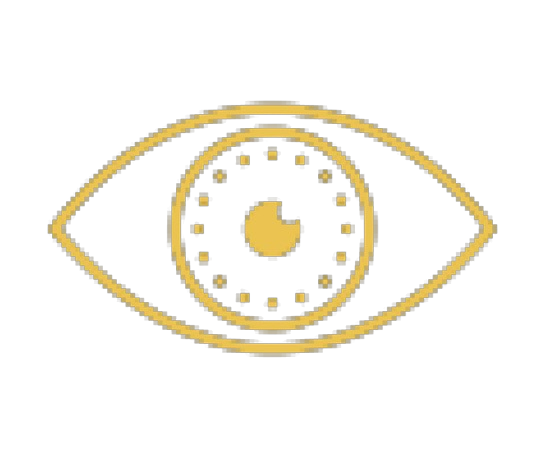
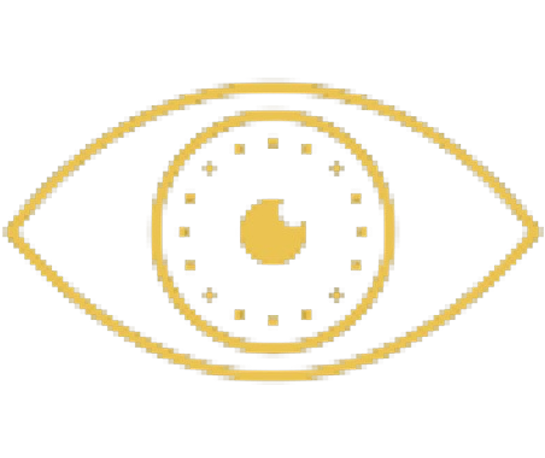
Muitas mudanças, envolvendo resolução de bug visual no HTML do login e do cadastro, mudança na construção de rotas, alteração de imagens nos assets etc.

Changed region(s): [[0.0, 0.1528, 0.9982, 0.8559], [0.4367, 0.4279, 0.5615, 0.5808]]

diff --git a/backend/src/server.js b/backend/src/server.js
@@ -15,53 +15,53 @@ app.get("/", (request, response) => {
 });
 
 app.get("/cadastro", (request, response) => {
-    response.sendFile("cadastro.html");
+    response.sendFile(path.join(__dirname, "..", "..", "frontend", "pages", "HTML", "cadastro.html"));
 });
 
 app.get("/carrinho", (request, response) => {
-    response.sendFile("carrinho_de_compras.html");
+    response.sendFile(path.join(__dirname, "..", "..", "frontend", "pages", "HTML", "carrinho_de_compras.html"));
 });
 
 app.get("/cartao_presente", (request, response) => {
-    response.sendFile("cartao_presente.html");
+    response.sendFile(path.join(__dirname, "..", "..", "frontend", "pages", "HTML", "cartao_presente.html"));
 });
 
 app.get("/catalogo", (request, response) => {
-    response.sendFile("catalogo_de_produtos.html");
+    response.sendFile(path.join(__dirname, "..", "..", "frontend", "pages", "HTML", "catalogo_de_produtos.html"));
 });
 
 app.get("/compra_cartao_presente", (request, response) => {
-    response.sendFile("compra_cartao_presente.html");
+    response.sendFile(path.join(__dirname, "..", "..", "frontend", "pages", "HTML", "compra_cartao_presente.html"));
 });
 
 app.get("/creditos", (request, response) => {
-    response.sendFile("creditos.html");
+    response.sendFile(path.join(__dirname, "..", "..", "frontend", "pages", "HTML", "creditos.html"));
 });
 
 app.get("/cupons", (request, response) => {
-    response.sendFile("cupons.html");
+    response.sendFile(path.join(__dirname, "..", "..", "frontend", "pages", "HTML", "cupons.html"));
 });
 
 app.get("/finalizar_compra", (request, response) => {
-    response.sendFile("finalizar_compra.html");
+    response.sendFile(path.join(__dirname, "..", "..", "frontend", "pages", "HTML", "finalizar_compra.html"));
 });
 
 app.get("/login", (request, response) => {
-    response.sendFile("login.html");
+    response.sendFile(path.join(__dirname, "..", "..", "frontend", "pages", "HTML", "login.html"));
 });
 
 app.get("/p/:id", (request, response) => {
-    response.sendFile("pagina_produto.html");
+    response.sendFile(path.join(__dirname, "..", "..", "frontend", "pages", "HTML", "pagina_produto.html"));
 });
 
 app.get("/personalizacao", (request, response) => {
-    response.sendFile("personalizacao.html");
+    response.sendFile(path.join(__dirname, "..", "..", "frontend", "pages", "HTML", "personalizacao.html"));
 });
 
 app.get("/registros", (request, response) => {
-    response.sendFile("registros.html");
+    response.sendFile(path.join(__dirname, "..", "..", "frontend", "pages", "HTML", "registros.html"));
 });
 
 app.get("/usuario", (request, response) => {
-    response.sendFile("usuario.html");
+    response.sendFile(path.join(__dirname, "..", "..", "frontend", "pages", "HTML", "usuario.html"));
 });

diff --git a/frontend/pages/HTML/cadastro.html b/frontend/pages/HTML/cadastro.html
@@ -4,9 +4,9 @@
     <meta charset="UTF-8">
     <meta name="viewport" content="width=device-width, initial-scale=1.0">
     <title>Cadastro - Mystic Market</title>
-    <link rel="stylesheet" href="../CSS/cadastro.css">
-    <link rel="stylesheet" href="../CSS/style.css">
-    <script defer src="../JS/cadastro.js"></script>
+    <link rel="stylesheet" href="./pages/CSS/cadastro.css">
+    <link rel="stylesheet" href="./pages/CSS/style.css">
+    <script defer src="./pages/JS/cadastro.js"></script>
 </head>
 <body>
     <header>

diff --git a/frontend/pages/HTML/login.html b/frontend/pages/HTML/login.html
@@ -4,9 +4,9 @@
     <meta charset="UTF-8">
     <meta name="viewport" content="width=device-width, initial-scale=1.0">
     <title>Login - Mystic Market</title>
-    <link rel="stylesheet" href="../CSS/style.css">
-    <link rel="stylesheet" href="../CSS/login.css">
-    <script defer src="../JS/login.js"></script>
+    <link rel="stylesheet" href="./pages/CSS/style.css">
+    <link rel="stylesheet" href="./pages/CSS/login.css">
+    <script defer src="./pages/JS/login.js"></script>
 </head>
 <body>
     <header>

diff --git a/frontend/pages/CSS/cadastro.css b/frontend/pages/CSS/cadastro.css
@@ -116,11 +116,12 @@ input {
 }
 
 #olho {
-    height: 5vh;
+    height: 60%;
     cursor: pointer;
     position: absolute;
-    bottom: 7px;
-    right: 2px;
+    top: 50%;
+    right: 5px;
+    transform: translate(0, -50%);
 }
 
 #buttonSubmit {

diff --git a/frontend/pages/CSS/login.css b/frontend/pages/CSS/login.css
@@ -122,11 +122,12 @@ input {
 }
 
 #olho {
-    height: 5vh;
+    height: 60%;
     cursor: pointer;
     position: absolute;
-    bottom: 7px;
-    right: 2px;
+    top: 50%;
+    right: 5px;
+    transform: translate(0, -50%);
 }
 
 #buttonSubmit {
